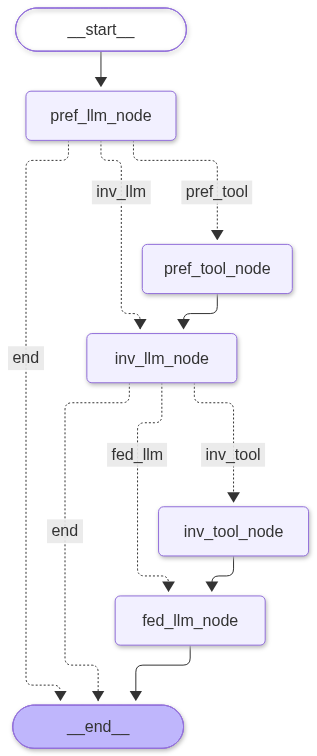
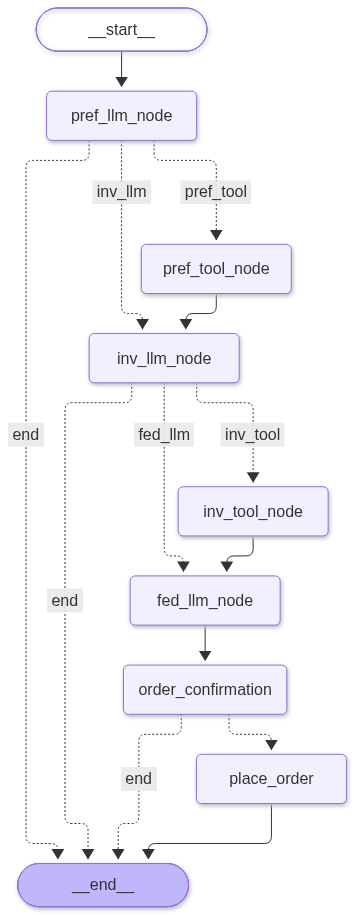
Day6 Langraph Cake

Changed region(s): [[0.0284, 0.0, 0.9937, 1.0], [0.0284, 0.0304, 0.0568, 0.0608]]

diff --git a/day6_cake.py b/day6_cake.py
@@ -4,36 +4,52 @@ from langchain.tools import tool
 from langgraph.graph import StateGraph
 from langgraph.graph import START, END
 from langchain.tools import tool
-from langchain_google_genai import ChatGoogleGenerativeAI
-from dotenv import load_dotenv
-load_dotenv()
 import sqlite3
+from dotenv import load_dotenv
+
+from langchain_google_genai import ChatGoogleGenerativeAI
+load_dotenv()
+ 
+from langfuse.langchain import CallbackHandler
+langfuse_handler = CallbackHandler()
 
 class AgentState(TypedDict):
       user: str
       desired_flavour: str
-      flavour_in_stock: str
+      flavours_in_stock : str
       federated_response : int
       steps_taken: Annotated[list, op_add]
-
+      order_decision: str
+      order_status: str
 def fetch_user_pref_node(state: AgentState) -> dict:
-    tool_out = fetch_user_data.invoke({"user_name" : state["user"]})
+    tool_out = fetch_user_data.invoke({"user_name" :state["user"]})
     print(f"response from sql tool: {tool_out}")
     return {          
-      "desired_flavour": tool_out,
-      "steps_taken":["user_pref_fetched"]
+            "desired_flavour": tool_out,
+            "steps_taken" : ["user_data_fetch"]
             }         
- 
  
 def fetch_inv_node(state: AgentState) -> dict:
     tool_out = fetch_inventory_data.invoke({})
     print(f"response from sql tool: {tool_out}")
     return {          
-            "flavour_in_stock": tool_out,
-            "steps_taken":["inventory_fetched"]
-            }
-         
+            "flavours_in_stock": tool_out,
+            "steps_taken" : ["inv_fetch"]
+            }     
 
+def order_confirmation_router(state : AgentState):
+    decision = state["order_decision"]
+    if decision == "yes":
+        print("user accepted to make the order")
+        return "place_order"
+    return "end"
+ 
+def place_order_node(state: AgentState):
+    print("order created")
+    return {
+        "order_status" :"order approved and placed",
+        "steps_taken" : ["order created"]
+    }
 @tool
 def fetch_user_data(user_name: str) -> str:
     """Fetches a user's past orders of cake flavour and order value."""    
@@ -51,39 +67,23 @@ def fetch_user_data(user_name: str) -> str:
     finally:
         conn.close() 
 
-
 @tool
-
 def fetch_inventory_data() -> str:
-
     """Fetches available flavour from the inventory table."""    
-
     conn = sqlite3.connect("cake.db")
-
     cursor = conn.cursor()    
-
     try:
-
         cursor.execute("SELECT Name, Price, Stock  FROM inventory")
-
         rows = cursor.fetchall() 
-
         if rows:
-
             inv_details = "\n".join([f"{itm[0]} costs {itm[1]} and available quantity is {itm[2]}"  for itm in rows])   
-
             return inv_details
-
         return f"No inventory data found"        
-
     except sqlite3.Error as e:
-
         return f"Database error encountered: {str(e)}"
-
     finally:
-
-        conn.close()
-
+        conn.close()   
+        
  
 preference_llm = ChatGoogleGenerativeAI(model="gemini-3.1-flash-lite")
 inventory_llm = ChatGoogleGenerativeAI(model="gemini-3.1-flash-lite")
@@ -97,72 +97,46 @@ inventory_llm_with_tools = inventory_llm.bind_tools(
     [fetch_inventory_data]
 )
 
-
 def preference_llm_node(state: AgentState):    
-
     messages_to_send = [
-
             {
-
                 "role": "system",
-
                 "content": """
-
                            You are the Preference LLM.
  
                             You have received the result from the preference database tool.
  
                             Analyze the tool result and determine the user's preferred
-
                             cake flavour.
  
                             Do not call the tool again.
  
                             If there is valid preference information, respond with
-
                             the preferred flavour and relevant information.
  
                             If no preference information was found, clearly say so.
-
                             """
-
             },
-
             {
-
                 "role": "user",
-
                 "content": f"""Find the cake flavour preference for user:{state["user"]}"""
-
             }
-
         ]
-
     response = preference_llm_with_tools.invoke(
-
         messages_to_send
-
     )
  
     if response.tool_calls:
-
         print("\nPreference LLM requested tool:")
-
         print(response.tool_calls)
-
         return {
-
              "steps_taken": [response]
-
         }
-
     return {
-
         "steps_taken": [response],
-
         "desired_flavour": response.content
-
     }
+
 def inventory_llm_node(state: AgentState):    
     messages_to_send = [
             {
@@ -202,16 +176,18 @@ def federated_llm_node(state: AgentState):
                 "content": """
                            You are the federated LLM who gets data from two other agents.
                             The results are available as   "desired_flavour",  " flavours_in_stock"
+ 
                             You can generate the appropriate response cake ordering for the user.
+                            note: desired_falvour has details about his past order. You have suggest his next order
  
                             """
             },
             {
                 "role": "user",
                 "content": f"""user :  {state['user']} 
-                        prefered falvour : {state['desired_flavour']}
-                        stock details : {state['flavour_in_stock']}
-                        provide thefinal recommendation
+                        desired_flavour : {state['desired_flavour']}
+                        flavours_in_stock : {state['flavours_in_stock']}
+                        provide the final recommendation
                         """
             }
         ]
@@ -239,18 +215,32 @@ def inventory_router(state: AgentState):
         print("stock is already available. So move to next")
         return "fed_llm"
     return  "end"
+from langgraph.types import interrupt, Command
  
-
-    
+def order_confirmation_node(state: AgentState):
+    print("waiting for approval")             
+    decision = interrupt({
+        "message": "Do you want to go ahead with the order?",
+        "recommendation":state["federated_response"],
+        "options":["yes", "no"]
+    })   
  
- 
+    print(f"\nuser response is {decision} ")    
+    return {
+        "order_decision" : str(decision).strip().lower(),
+        "steps_taken" :["human decision"]
+    }   
 builder = StateGraph(AgentState)  
+ 
 builder.add_node("pref_llm_node", preference_llm_node)
 builder.add_node("inv_llm_node", inventory_llm_node)
-builder.add_node("pref_tool_node",fetch_user_pref_node)
+builder.add_node("pref_tool_node", fetch_user_pref_node)
 builder.add_node("inv_tool_node", fetch_inv_node)
 builder.add_node("fed_llm_node", federated_llm_node)
+builder.add_node("order_confirmation", order_confirmation_node)
+builder.add_node("place_order", place_order_node)
 
+from langgraph.graph import START, END
 builder.add_edge(START, "pref_llm_node") 
 # builder.add_edge("pref_llm_node", "inv_llm_node")
 builder.add_conditional_edges(
@@ -263,7 +253,7 @@ builder.add_conditional_edges(
     }
 )
 builder.add_edge("pref_tool_node", "inv_llm_node") 
-#builder.add_edge("inv_llm_node", "inv_tool_node") 
+# builder.add_edge("inv_llm_node", "inv_tool_node") 
 builder.add_conditional_edges(
     "inv_llm_node",
     inventory_router,
@@ -273,32 +263,57 @@ builder.add_conditional_edges(
         "end" : END 
     }
 )
-builder.add_edge("inv_tool_node", "fed_llm_node")
-builder.add_edge("fed_llm_node", END)
+builder.add_edge("inv_tool_node", "fed_llm_node") 
+builder.add_edge( "fed_llm_node", "order_confirmation") 
+builder.add_conditional_edges(
+    "order_confirmation",
+    order_confirmation_router,
+    {
+        "place_order": "place_order",
+        "end" : END 
+    }
+)
+builder.add_edge("place_order", END)
 
-app  = builder.compile()
+from langgraph.checkpoint.memory import InMemorySaver
+ 
+checkpoint = InMemorySaver()
+app  = builder.compile(checkpointer=checkpoint)
+
+initial_state ={"user":"nickith", "steps_taken": []}
+
+# final_state = app.invoke(initial_state)
+
+ 
 from IPython.display import Image, display
 png_data = app.get_graph().draw_mermaid_png()
  
 with open("langgraph_flow.png", "wb") as f:
     f.write(png_data)
 
-initial_state ={"user": "nickith", "steps_taken": []}
-
-# final_state = app.invoke(initial_state)
-from dotenv import load_dotenv
-load_dotenv()
- 
-from langfuse.langchain import CallbackHandler
-langfuse_handler = CallbackHandler()
- 
 langfuse_config = {"callbacks" : [langfuse_handler],
+                   "configurable" : {
+                       "thread_id": "cake_order_001"
+                   },
                    "metadata" :
                                 {
                                     "langfuse_session_id": "langgraph_session",
-                                    "langfuse_user_id" :"Nalla"
+                                    "langfuse_user_id" :"manojkannas"
                                 }
                     }
  
 final_state = app.invoke(initial_state, config = langfuse_config)
-print(final_state)
+# print(final_state)
+if  "__interrupt__" in final_state:
+    # print("..>.." * 50)
+    # print("interrupt detected")
+    interrupt_data = final_state["__interrupt__"][0].value
+    print("..>.." * 15)
+    # print(interrupt_data)
+    print("Recommendation",interrupt_data["recommendation"] )
+    print("Options:",interrupt_data["options"])
+ 
+    human_response = input("Do you want to place the order?") 
+    print(f"User response : {human_response}")
+    final_state = app.invoke(Command(resume=human_response), config = langfuse_config)
+    print(final_state)
